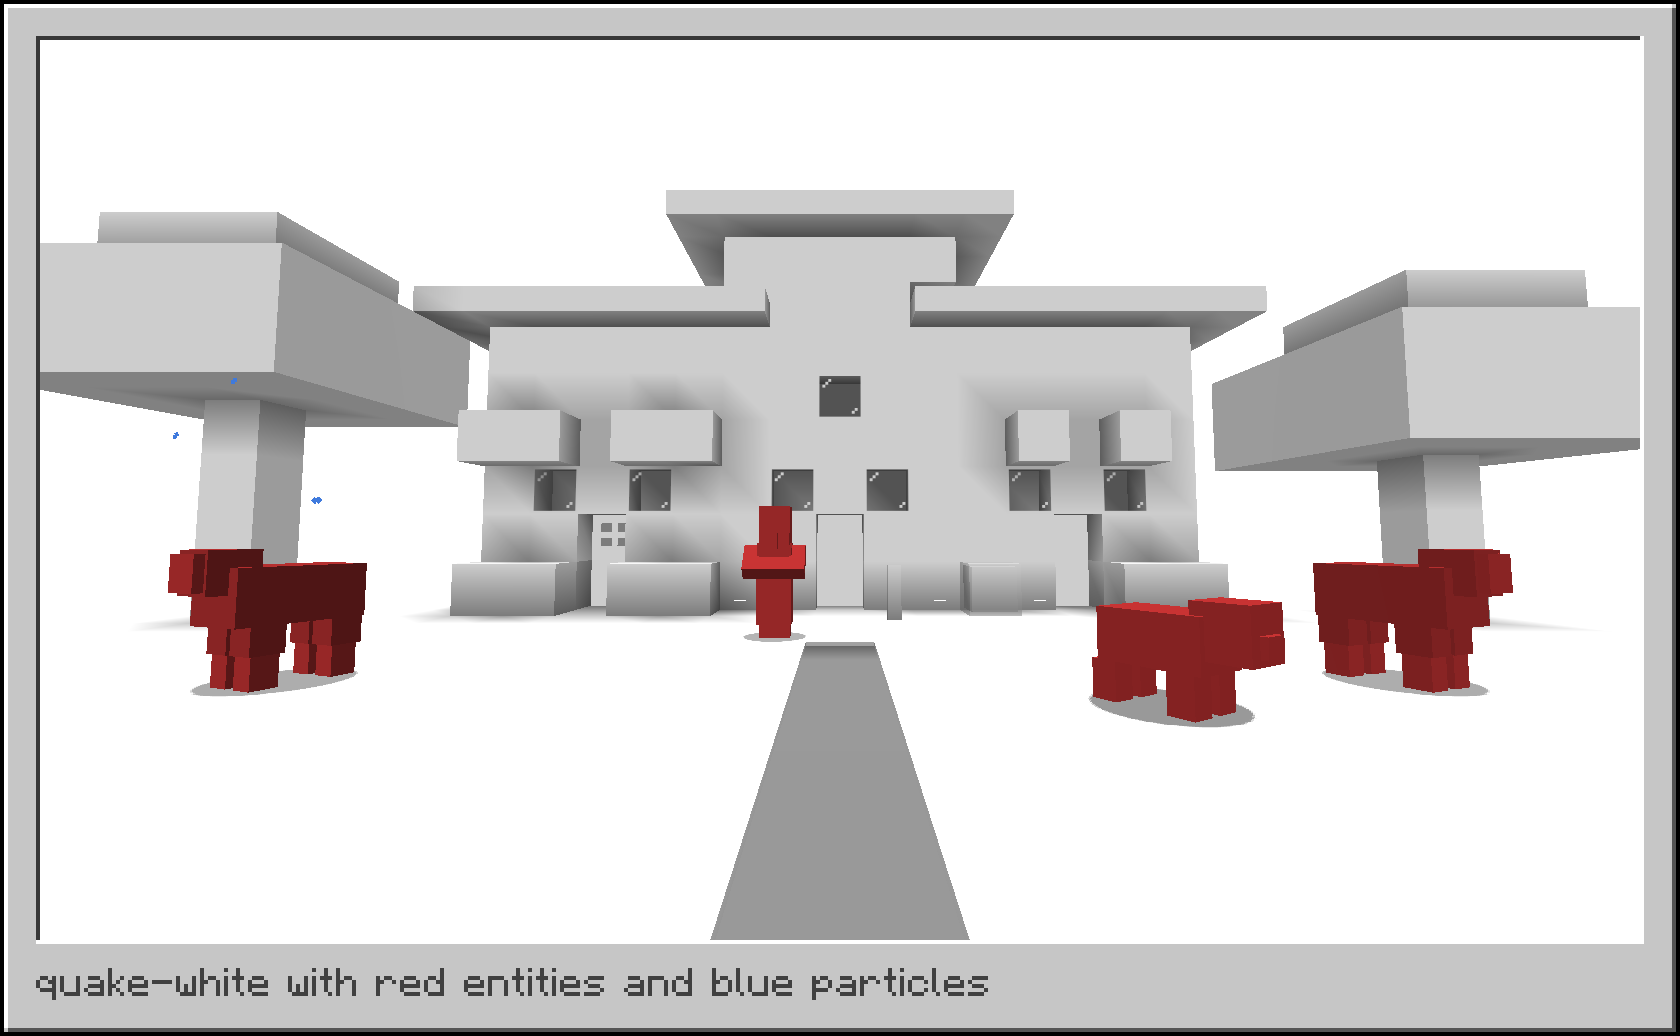
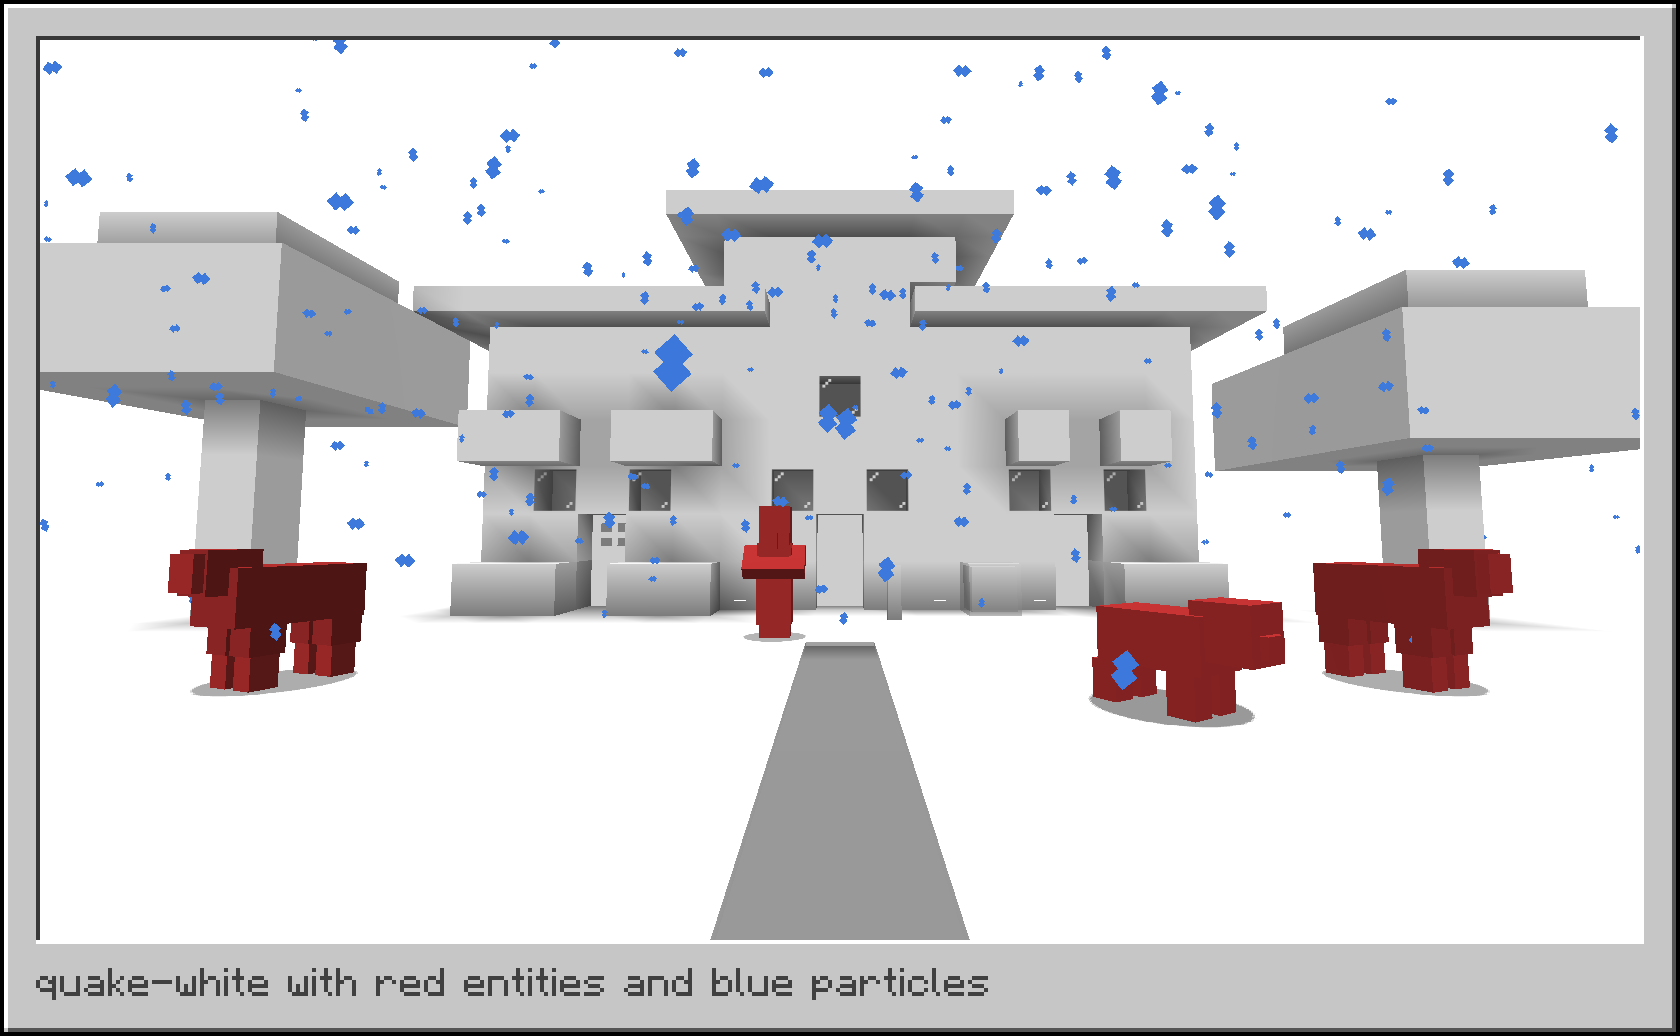
docs: Add a rimmed top image to the store page and more blue petals to the last gallery image

diff --git a/tools/rim.py b/tools/rim.py
@@ -1,0 +1,44 @@
+"""Gives an image rounded corners, a thin dark rim and a soft shadow, for the top image of the store description.
+
+Usage: python tools/rim.py OUT IMAGE
+Needs Pillow.
+"""
+import sys
+
+from PIL import Image, ImageDraw, ImageFilter
+
+RADIUS = 18                # the corner radius, in image pixels
+RIM = 1                    # the width of the rim, in image pixels
+RIM_COLOR = (10, 10, 12, 255)
+SHADOW = 24                # the blur of the shadow, in image pixels
+SHADOW_ALPHA = 90
+SS = 4                     # supersampling for smooth corners
+
+
+def rounded(w, h, r):
+    mask = Image.new("L", (w * SS, h * SS), 0)
+    ImageDraw.Draw(mask).rounded_rectangle((0, 0, w * SS - 1, h * SS - 1), r * SS, fill=255)
+    return mask.resize((w, h), Image.LANCZOS)
+
+
+def rim(image):
+    w, h = image.width + 2 * RIM, image.height + 2 * RIM
+    pad = SHADOW * 2
+    out = Image.new("RGBA", (w + 2 * pad, h + 2 * pad), (0, 0, 0, 0))
+    shadow = Image.new("RGBA", out.size, (0, 0, 0, 0))
+    shadow.paste((0, 0, 0, SHADOW_ALPHA), (pad, pad + SHADOW // 3), rounded(w, h, RADIUS))
+    out = Image.alpha_composite(out, shadow.filter(ImageFilter.GaussianBlur(SHADOW / 2)))
+    layer = Image.new("RGBA", out.size, (0, 0, 0, 0))
+    layer.paste(RIM_COLOR, (pad, pad), rounded(w, h, RADIUS))
+    layer.paste(image, (pad + RIM, pad + RIM), rounded(image.width, image.height, RADIUS - RIM))
+    return Image.alpha_composite(out, layer)
+
+
+def main(argv):
+    if len(argv) != 3:
+        sys.exit(__doc__)
+    rim(Image.open(argv[2]).convert("RGBA")).save(argv[1])
+
+
+if __name__ == "__main__":
+    main(sys.argv)

diff --git a/modrinth/DESCRIPTION.md b/modrinth/DESCRIPTION.md
@@ -1,6 +1,6 @@
 # Albedo
 
-![Vanilla, the minimal profile with the Galaxy sky, and quake-white](https://raw.githubusercontent.com/wvvern/albedo/master/modrinth/gallery/01-split.png)
+![Vanilla, the minimal profile with the Galaxy sky, and quake-white](https://raw.githubusercontent.com/wvvern/albedo/master/modrinth/header.png)
 
 Albedo is a client-side mod that lets you paint blocks, fluids, the sky, mobs and the rest of the world in any color. Give each part one flat color, or recolor its textures and keep their detail.
 

diff --git a/README.md b/README.md
@@ -4,7 +4,7 @@ Albedo is a client-side Minecraft mod that lets you paint blocks, fluids, the sk
 
 Textures are changed as they load, so modded blocks and resource packs work too.
 
-![Vanilla, the minimal profile with the Galaxy sky, and quake-white](modrinth/gallery/01-split.png)
+![Vanilla, the minimal profile with the Galaxy sky, and quake-white](modrinth/header.png)
 
 ## Features
 
